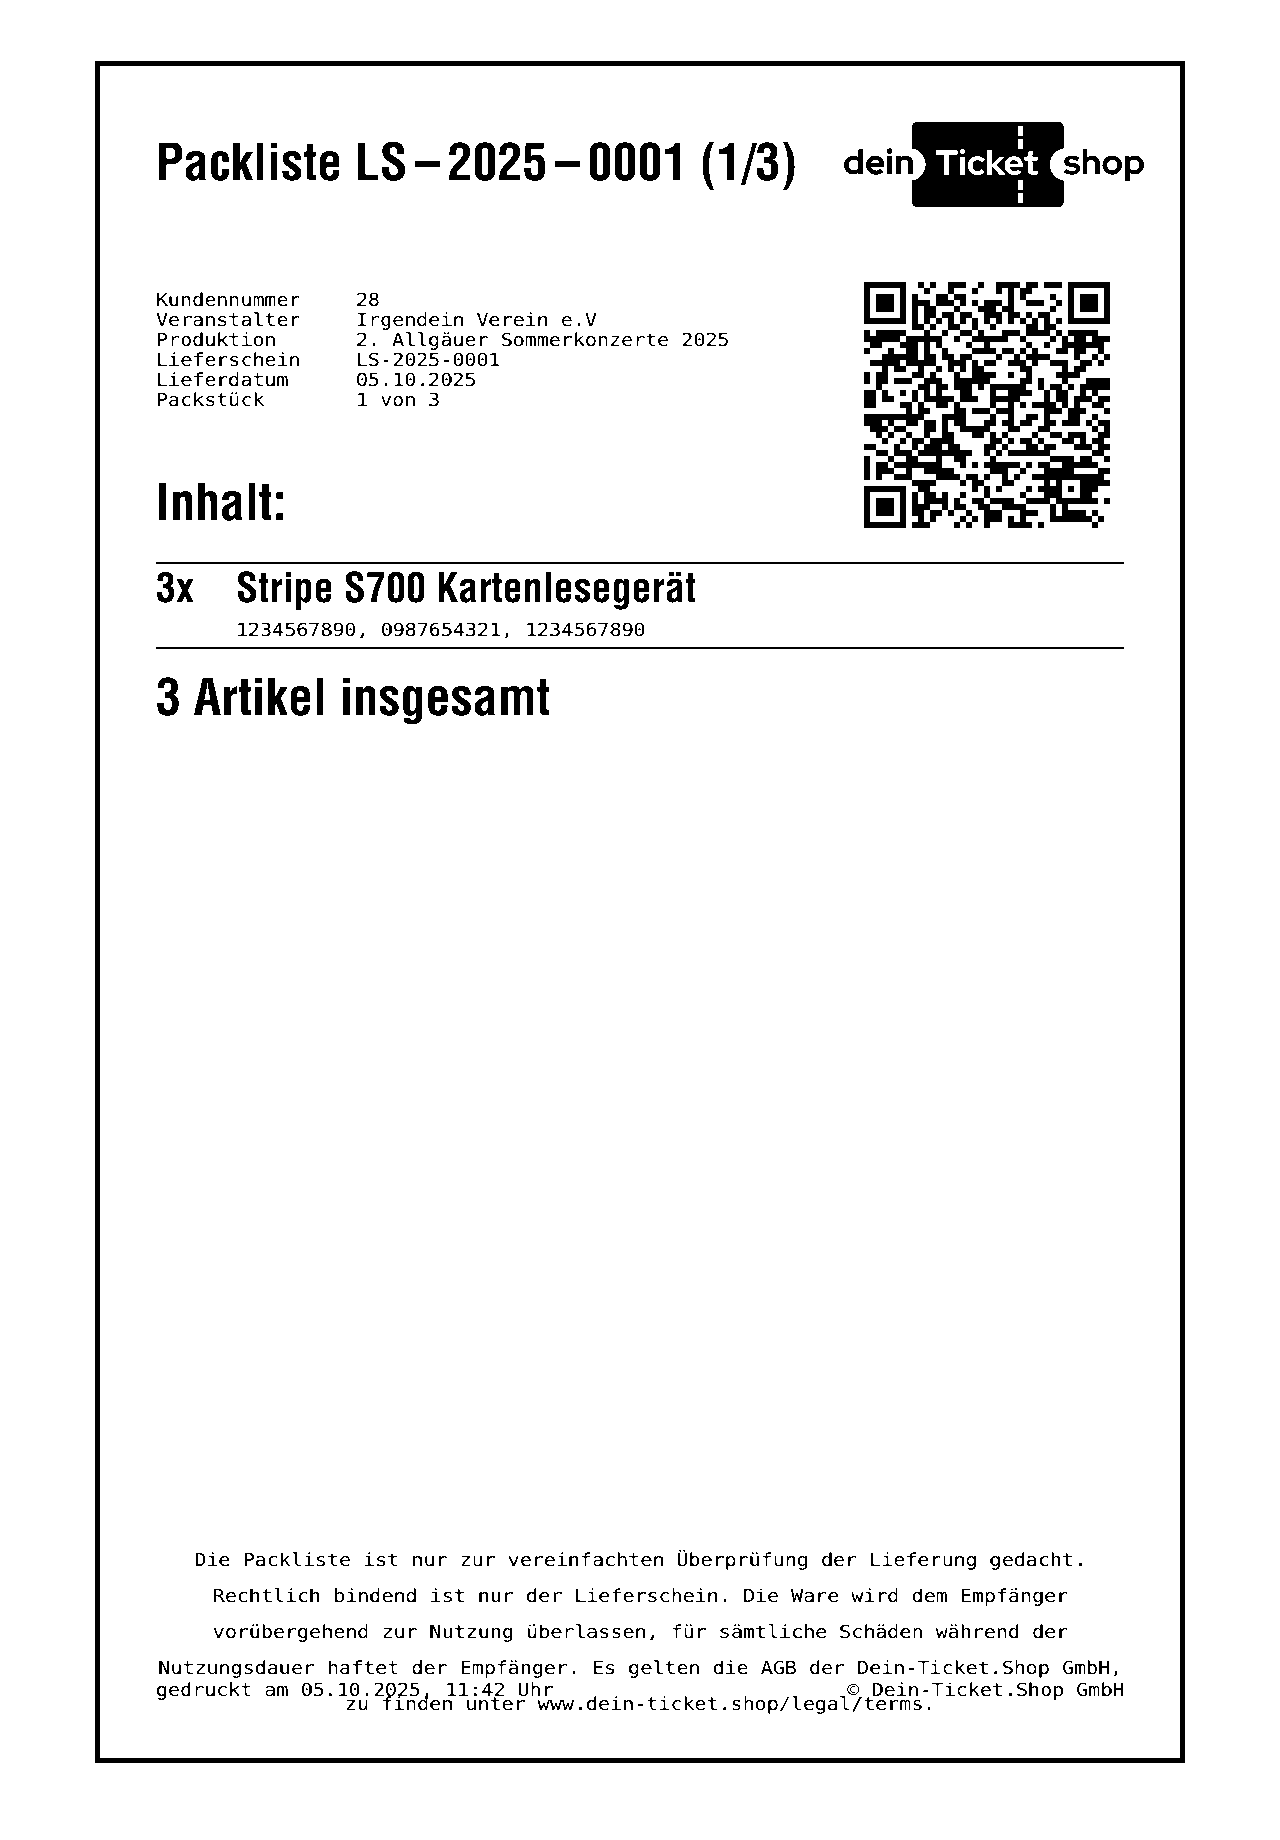
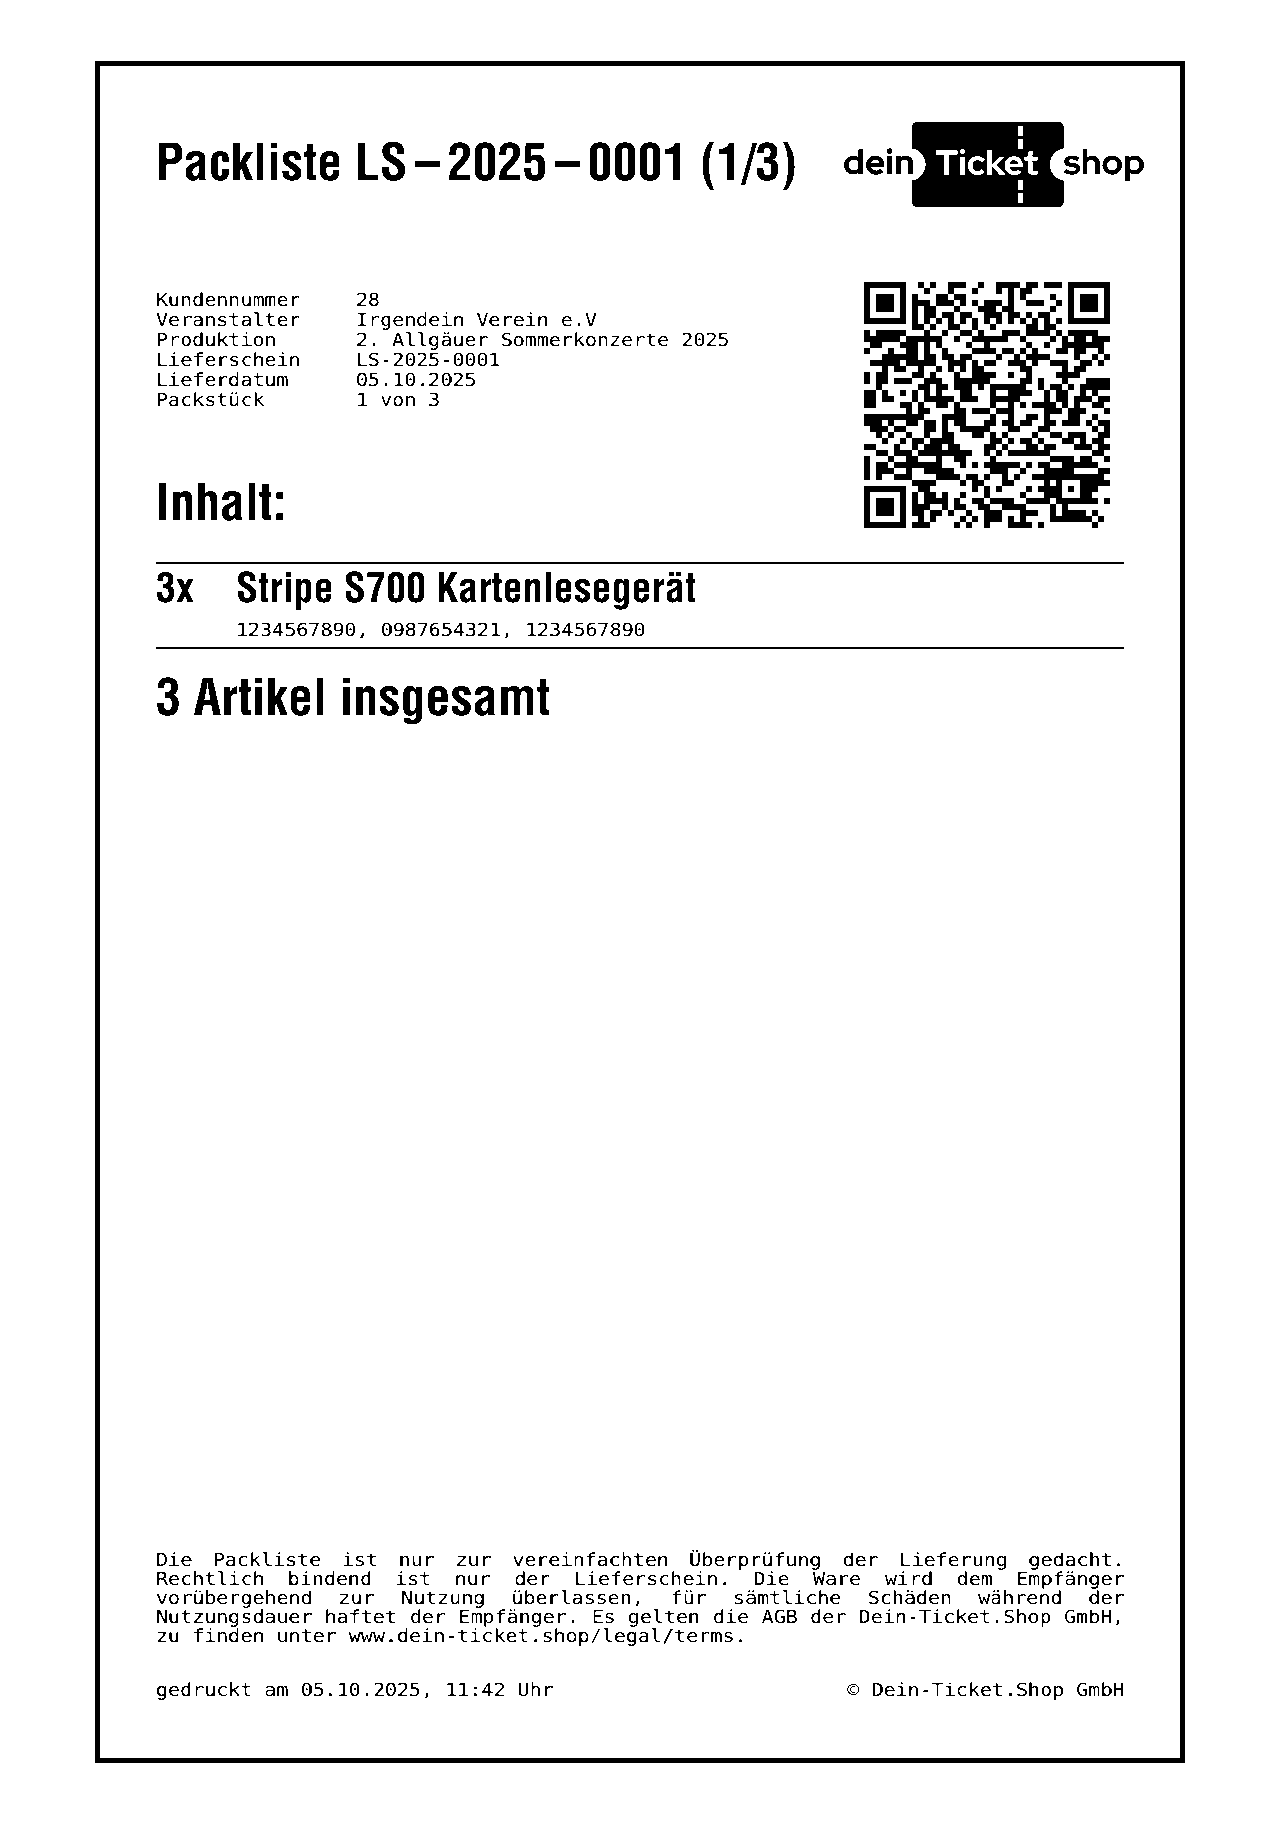
Fix text alignment

Changed region(s): [[0.125, 0.8364, 0.875, 0.9293]]

diff --git a/internal/drawers/text_field.go b/internal/drawers/text_field.go
@@ -52,8 +52,7 @@ func NewTextFieldDrawer() *ElementDrawer {
 
 			if text.Block != nil {
 				maxWidth := float64(text.Block.MaxWidth) / scaleX
-				align := getTextBlockAlign(text.Block)
-				gCtx.DrawStringWrapped(text.Text, x, y-h, ax, ay, maxWidth, 1+float64(text.Block.LineSpacing), align)
+				drawStringWrapped(gCtx, text.Text, x, y-h, ax, ay, maxWidth, 1+float64(text.Block.LineSpacing)/h, text.Block.Alignment)
 			} else {
 				gCtx.DrawStringAnchored(text.Text, x, y, ax, ay)
 			}
@@ -90,6 +89,15 @@ func getTffFont(font elements.FontInfo) *truetype.Font {
 func getTextTopLeftPos(text *elements.TextField, w, h float64, state *DrawerState) (float64, float64) {
 	x, y := state.GetTextPosition(text)
 
+	lines := 1.0
+	spacing := 0.0
+
+	if text.Block != nil {
+		lines = float64(max(text.Block.MaxLines, 1))
+		spacing = float64(text.Block.LineSpacing)
+		w = float64(text.Block.MaxWidth)
+	}
+
 	if !text.Position.CalculateFromBottom {
 		switch text.Font.Orientation {
 		case elements.FieldOrientation90:
@@ -101,14 +109,6 @@ func getTextTopLeftPos(text *elements.TextField, w, h float64, state *DrawerStat
 		default:
 			return x, y + 3*h/4
 		}
-	}
-
-	lines := 1.0
-	spacing := 0.0
-
-	if text.Block != nil {
-		lines = float64(max(text.Block.MaxLines, 1))
-		spacing = float64(text.Block.LineSpacing)
 	}
 
 	offset := (lines - 1) * (h + spacing)
@@ -130,26 +130,15 @@ func getTextAxAy(text *elements.TextField) (float64, float64) {
 	ay := 0.0
 
 	switch text.Alignment {
-	case elements.TextAlignmentLeft:
+	case elements.TextAlignmentLeft, elements.TextAlignmentJustified:
 		ax = 0
 	case elements.TextAlignmentRight:
 		ax = 1
-	case elements.TextAlignmentJustified, elements.TextAlignmentCenter:
+	case elements.TextAlignmentCenter:
 		ax = 0.5
 	}
 
 	return ax, ay
-}
-
-func getTextBlockAlign(block *elements.FieldBlock) gg.Align {
-	switch block.Alignment {
-	case elements.TextAlignmentRight:
-		return gg.AlignRight
-	case elements.TextAlignmentJustified, elements.TextAlignmentCenter:
-		return gg.AlignCenter
-	default:
-		return gg.AlignLeft
-	}
 }
 
 func mustLoadFont(fontData []byte) *truetype.Font {
@@ -159,4 +148,68 @@ func mustLoadFont(fontData []byte) *truetype.Font {
 	}
 
 	return font
+}
+
+// Similar to gCtx.DrawStringWrapped but supports justified alignment
+func drawStringWrapped(gCtx *gg.Context, s string, x, y, ax, ay, width, lineSpacing float64, align elements.TextAlignment) {
+	fontHeight := gCtx.FontHeight()
+	lines := gCtx.WordWrap(s, width)
+
+	h := float64(len(lines)) * fontHeight * lineSpacing
+	h -= (lineSpacing - 1) * fontHeight
+
+	x -= ax * width
+	y -= ay * h
+	switch align {
+	case elements.TextAlignmentLeft, elements.TextAlignmentJustified:
+		ax = 0
+	case elements.TextAlignmentCenter:
+		ax = 0.5
+		x += width / 2
+	case elements.TextAlignmentRight:
+		ax = 1
+		x += width
+	}
+	ay = 1
+
+	lastLine := len(lines) - 1
+
+	for i, line := range lines {
+		switch {
+		case align == elements.TextAlignmentJustified && i < lastLine:
+			drawStringJustified(gCtx, line, x, y, ax, ay, width)
+		default:
+			gCtx.DrawStringAnchored(line, x, y, ax, ay)
+		}
+
+		y += fontHeight * lineSpacing
+	}
+}
+
+func drawStringJustified(gCtx *gg.Context, line string, x, y, ax, ay, maxWidth float64) {
+	words := strings.Fields(line)
+	fontHeight := gCtx.FontHeight()
+
+	totalWordWidth := 0.0
+	wordsWidth := make([]float64, len(words))
+	for i, word := range words {
+		w, _ := gCtx.MeasureString(word)
+		wordsWidth[i] = w
+		totalWordWidth += w
+	}
+
+	spaceCount := len(words) - 1
+	spaceWidth := 0.0
+	if spaceCount > 0 {
+		spaceWidth = (maxWidth - totalWordWidth) / float64(spaceCount)
+		if spaceWidth < 0 {
+			spaceWidth = fontHeight * 0.3
+		}
+	}
+
+	cx := x
+	for i, word := range words {
+		gCtx.DrawStringAnchored(word, cx, y, ax, ay)
+		cx += wordsWidth[i] + spaceWidth
+	}
 }
